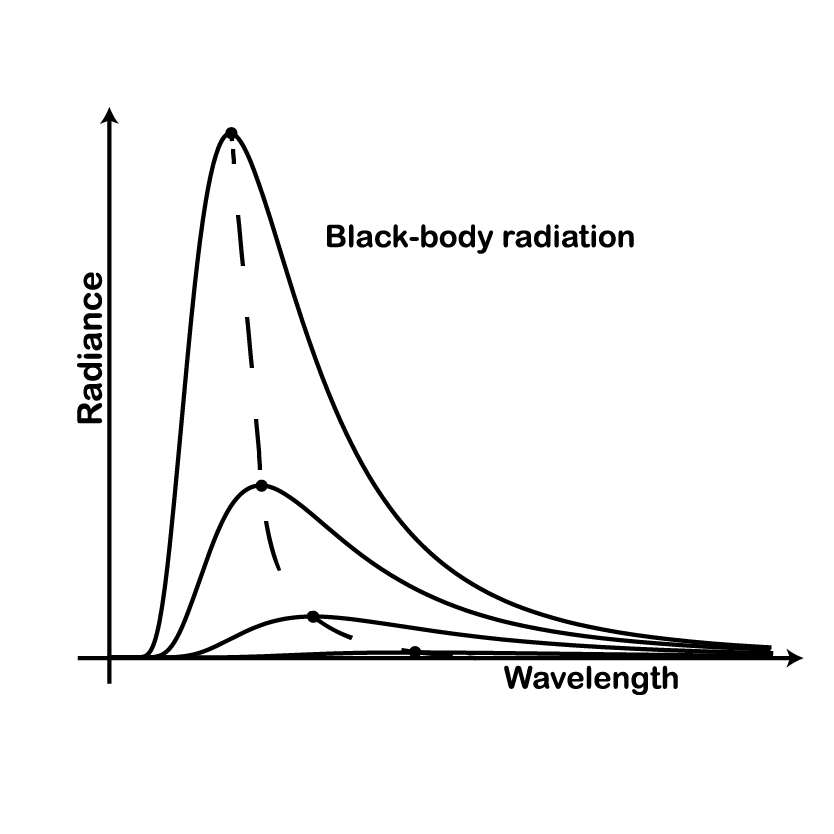
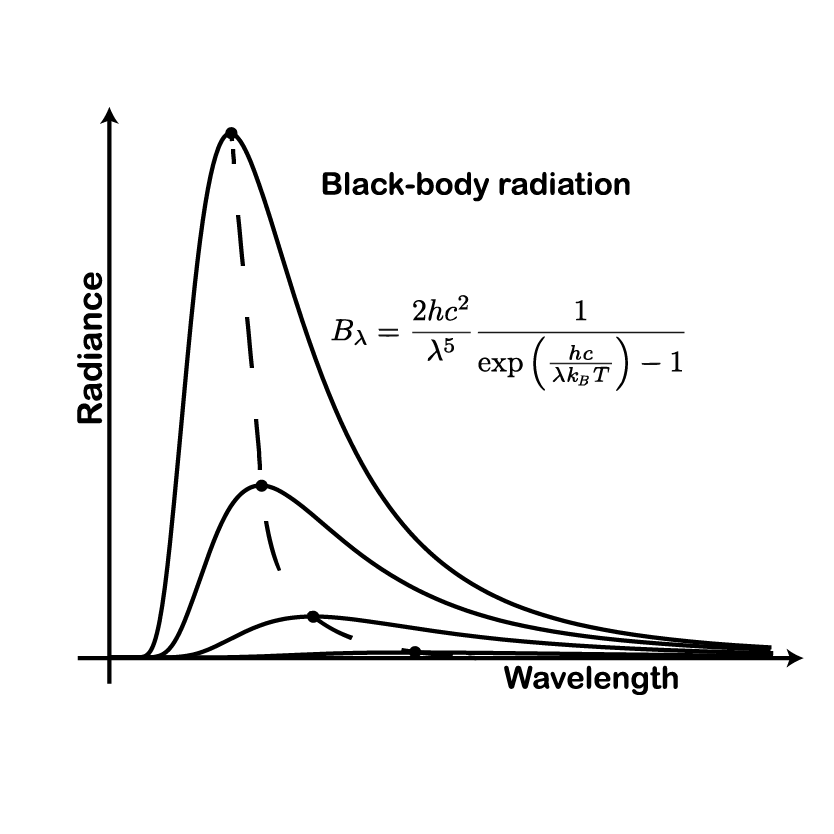
visuals-description

Changed region(s): [[0.3741, 0.1871, 0.7794, 0.3118], [0.5923, 0.3741, 0.8106, 0.4676], [0.4053, 0.3429, 0.5612, 0.4365]]

diff --git a/index_de.html b/index_de.html
@@ -375,7 +375,7 @@
         <button class="theory-toggle" onclick="toggleTheory(this)">Mehr &darr;</button>
         <div class="theory-detail">
           <p>Alles andere in diesem Puzzle ist eine Korrektur dieses Ausgangspunkts. Für alltägliche Geschwindigkeiten und Größenordnungen funktioniert sie nach wie vor perfekt.</p>
-          <p class="theory-visual-note">Bild: Das innerste Tetraeder — der Ursprung der gesamten Karte.</p>
+          <p class="theory-visual-note">Bild: Das komplexe Kräftegleichgewicht eines Surfers.</p>
         </div>
       </div>
 
@@ -390,7 +390,7 @@
         <button class="theory-toggle" onclick="toggleTheory(this)">Mehr &darr;</button>
         <div class="theory-detail">
           <p>Damit entstehen Wärme, Entropie und Druck aus der Statistik. Boltzmanns Grabstein in Wien trägt nur: <em>S = k<sub>B</sub> log W</em>.</p>
-          <p class="theory-visual-note">Bild: Ein spitzes Tetraeder, das zur thermodynamischen Ecke zeigt.</p>
+          <p class="theory-visual-note">Bild: Begriffe wie „heiß" und „kalt" hängen von der Aktivierungsenergie ab.</p>
         </div>
       </div>
 
@@ -405,7 +405,7 @@
         <button class="theory-toggle" onclick="toggleTheory(this)">Mehr &darr;</button>
         <div class="theory-detail">
           <p><em>G</em> ist die einzige von Plancks vier Konstanten, die noch nicht mit voller Präzision gemessen wurde — Experimente dazu laufen bis heute.</p>
-          <p class="theory-visual-note">Bild: Ein spitzes Tetraeder, das zur Gravitationsecke zeigt.</p>
+          <p class="theory-visual-note">Bild: Ellipsen von Merkur, Venus, Erde (mit Mond) und Mars um die Sonne.</p>
         </div>
       </div>
 
@@ -435,7 +435,7 @@
         <button class="theory-toggle" onclick="toggleTheory(this)">Mehr &darr;</button>
         <div class="theory-detail">
           <p>Die entscheidende Konstante ist <em>c⁻¹</em> — für <em>c → ∞</em> geht die spezielle Relativitätstheorie in Newtons Mechanik über. Maxwells Gleichungen leben hier ebenfalls.</p>
-          <p class="theory-visual-note">Bild: Ein spitzes Tetraeder, das zur relativistischen Ecke zeigt.</p>
+          <p class="theory-visual-note">Bild: Das Zwillingsparadoxon — ein klassisches Gedankenexperiment der speziellen Relativitätstheorie.</p>
         </div>
       </div>
 
@@ -450,7 +450,7 @@
         <button class="theory-toggle" onclick="toggleTheory(this)">Mehr &darr;</button>
         <div class="theory-detail">
           <p>Planck, Einstein und andere schlugen verschiedene Antworten vor — und alle könnten richtig sein, je nachdem, wie man Temperatur für ein bewegtes System definiert. Ein seltener Fall einer Theorie, die mehr Rätsel als Lösung ist.</p>
-          <p class="theory-visual-note">Bild: Ein Zwei-Konstanten-Stück mit einer offenen Frage in seinem Kern.</p>
+          <p class="theory-visual-note">Bild: Was ist die Temperatur eines bewegten Körpers?</p>
         </div>
       </div>
 
@@ -465,7 +465,7 @@
         <button class="theory-toggle" onclick="toggleTheory(this)">Mehr &darr;</button>
         <div class="theory-detail">
           <p>Die Formulierungen von Schrödinger und Heisenberg in den 1920er Jahren veränderten die Physik grundlegend. Einstein protestierte: „Gott würfelt nicht." Die Würfel widersprachen.</p>
-          <p class="theory-visual-note">Bild: Ein spitzes Tetraeder, das zur Quantenecke zeigt.</p>
+          <p class="theory-visual-note">Bild: Verschränkung von Teilchen — ihr Zustand kann nicht mehr unabhängig beschrieben werden.</p>
         </div>
       </div>
 
@@ -480,7 +480,7 @@
         <button class="theory-toggle" onclick="toggleTheory(this)">Mehr &darr;</button>
         <div class="theory-detail">
           <p>Plancks Schwarzkörpergesetz von 1900 — die erste Quantenformel — lebt ebenfalls hier.</p>
-          <p class="theory-visual-note">Bild: Wo Quantenseltsamkeit auf Thermodynamik trifft.</p>
+          <p class="theory-visual-note">Bild: Ein verrauschtes Qubit — die Umgebung „lässt" Information aus dem Qubit-System austreten.</p>
         </div>
       </div>
 
@@ -495,7 +495,7 @@
         <button class="theory-toggle" onclick="toggleTheory(this)">Mehr &darr;</button>
         <div class="theory-detail">
           <p>Alles später bestätigt. Das Bild zeigt durch eine massive Masse gekrümmten Raum — keine Kraft zieht nach unten, sondern eine Form leitet die Bewegung.</p>
-          <p class="theory-visual-note">Bild: Ein größeres Stück — zwei Konstanten, zwei revolutionierte Konzepte von Raum und Zeit.</p>
+          <p class="theory-visual-note">Bild: Die Raumzeit-Geometrie wird durch die Masse gekrümmt.</p>
         </div>
       </div>
 
@@ -510,7 +510,7 @@
         <button class="theory-toggle" onclick="toggleTheory(this)">Mehr &darr;</button>
         <div class="theory-detail">
           <p>Die Kosmologie lebt an dieser Schnittstelle von gekrümmter Raumzeit und Thermodynamik, obwohl Quanteneffekte nie wirklich absent sind.</p>
-          <p class="theory-visual-note">Bild: Das expandierende Universum, gemessen in Kelvin.</p>
+          <p class="theory-visual-note">Bild: Das expandierende Universum kühlt ab.</p>
         </div>
       </div>
 
@@ -540,7 +540,7 @@
         <button class="theory-toggle" onclick="toggleTheory(this)">Mehr &darr;</button>
         <div class="theory-detail">
           <p>Der Unruh-Effekt sagt voraus, dass ein beschleunigter Detektor im leeren Raum eine von Null verschiedene Temperatur messen wird. Heißes Vakuum: experimentell noch unbestätigt, theoretisch überzeugend.</p>
-          <p class="theory-visual-note">Bild: Drei Konstanten, die erste Quantenformel und ein glühendes Vakuum.</p>
+          <p class="theory-visual-note">Bild: Drei Konstanten, die erste Quantenformel und ein glühender Schwarzkörper.</p>
         </div>
       </div>
 
@@ -585,7 +585,7 @@
         <button class="theory-toggle" onclick="toggleTheory(this)">Mehr &darr;</button>
         <div class="theory-detail">
           <p>Keine wurde experimentell bestätigt. Die Planck-Länge (~10⁻³⁵ m), wo Quantengravitation bedeutsam werden muss, ist 10²⁰ mal kleiner als ein Proton. Der Fortschritt ist langsam, aber die Frage ist real.</p>
-          <p class="theory-visual-note">Bild: M-Theorie — eine Vision der Theorie von allem.</p>
+          <p class="theory-visual-note">Bild: Stringtheorie — eine Vision der Theorie von allem.</p>
         </div>
       </div>
 

diff --git a/index.html b/index.html
@@ -768,7 +768,7 @@
         <button class="theory-toggle" onclick="toggleTheory(this)">More &darr;</button>
         <div class="theory-detail">
           <p>Everything else in this puzzle is a correction to this starting point. It still works perfectly for everyday speeds and scales.</p>
-          <p class="theory-visual-note">Visual: The innermost tetrahedron — the origin of the whole map.</p>
+          <p class="theory-visual-note">Visual: The complex equilibrium of forces of a surfer.</p>
         </div>
       </div>
 
@@ -783,7 +783,7 @@
         <button class="theory-toggle" onclick="toggleTheory(this)">More &darr;</button>
         <div class="theory-detail">
           <p>With it, heat, entropy, and pressure emerge from statistics. Boltzmann's tombstone in Vienna reads simply: <em>S = k<sub>B</sub> log W</em>.</p>
-          <p class="theory-visual-note">Visual: A spiky tetrahedron pointing toward the thermodynamic corner.</p>
+          <p class="theory-visual-note">Visual: Terms such as "hot" and "cold" depend on the activation energy.</p>
         </div>
       </div>
 
@@ -798,7 +798,7 @@
         <button class="theory-toggle" onclick="toggleTheory(this)">More &darr;</button>
         <div class="theory-detail">
           <p><em>G</em> is the only one of Planck's four constants still not measured to full precision — experiments to nail it down are ongoing today.</p>
-          <p class="theory-visual-note">Visual: A spiky tetrahedron pointing toward the gravitational corner.</p>
+          <p class="theory-visual-note">Visual: Mercury, Venus, Earth (with moon) and Mars elipses around the Sun.</p>
         </div>
       </div>
 
@@ -828,7 +828,7 @@
         <button class="theory-toggle" onclick="toggleTheory(this)">More &darr;</button>
         <div class="theory-detail">
           <p>The constant that matters is <em>c⁻¹</em> — as <em>c → ∞</em>, special relativity collapses back to Newton. Maxwell's equations live here too.</p>
-          <p class="theory-visual-note">Visual: A spiky tetrahedron pointing toward the relativistic corner.</p>
+          <p class="theory-visual-note">Visual: The twin paradox — a classic thought experiment in special relativity.</p>
         </div>
       </div>
 
@@ -843,7 +843,7 @@
         <button class="theory-toggle" onclick="toggleTheory(this)">More &darr;</button>
         <div class="theory-detail">
           <p>Planck, Einstein, and others proposed different answers — and all may be correct, depending on how you define temperature for a moving system. A rare case of a theory that is more puzzle than solution.</p>
-          <p class="theory-visual-note">Visual: A two-constant piece with an open question at its heart.</p>
+          <p class="theory-visual-note">Visual: What is the temperature of a moving body?</p>
         </div>
       </div>
 
@@ -858,7 +858,7 @@
         <button class="theory-toggle" onclick="toggleTheory(this)">More &darr;</button>
         <div class="theory-detail">
           <p>The 1920s formulations of Schrödinger and Heisenberg transformed physics. Einstein protested: "God does not play dice." The dice disagree.</p>
-          <p class="theory-visual-note">Visual: A spiky tetrahedron pointing toward the quantum corner.</p>
+          <p class="theory-visual-note">Visual: Entanglement of particles — their state cannot be described independently anymore.</p>
         </div>
       </div>
 
@@ -873,7 +873,7 @@
         <button class="theory-toggle" onclick="toggleTheory(this)">More &darr;</button>
         <div class="theory-detail">
           <p>Planck's 1900 black-body law — the first quantum formula — lives here too.</p>
-          <p class="theory-visual-note">Visual: Where quantum strangeness meets thermodynamics.</p>
+          <p class="theory-visual-note">Visual: A noisy qubit — the environment "leaks" information out of the qubit system.</p>
         </div>
       </div>
 
@@ -888,7 +888,7 @@
         <button class="theory-toggle" onclick="toggleTheory(this)">More &darr;</button>
         <div class="theory-detail">
           <p>All later confirmed. The image shows space curved by a massive body — not a force pulling things down, but a shape guiding them.</p>
-          <p class="theory-visual-note">Visual: A larger piece — two constants, two revolutionised concepts of space and time.</p>
+          <p class="theory-visual-note">Visual: Space-time geometry is curved due to the mass.</p>
         </div>
       </div>
 
@@ -903,7 +903,7 @@
         <button class="theory-toggle" onclick="toggleTheory(this)">More &darr;</button>
         <div class="theory-detail">
           <p>Cosmology lives at this intersection of curved spacetime and thermodynamics, though quantum effects are never truly absent.</p>
-          <p class="theory-visual-note">Visual: The expanding universe, measured in degrees.</p>
+          <p class="theory-visual-note">Visual: The expanding universe is cooling down.</p>
         </div>
       </div>
 
@@ -933,7 +933,7 @@
         <button class="theory-toggle" onclick="toggleTheory(this)">More &darr;</button>
         <div class="theory-detail">
           <p>The Unruh effect predicts that an accelerating detector in empty space will measure a nonzero temperature. Hot vacuum: still unconfirmed experimentally, but theoretically compelling.</p>
-          <p class="theory-visual-note">Visual: Three constants, the first quantum formula, and a glowing vacuum.</p>
+          <p class="theory-visual-note">Visual: Three constants, the first quantum formula, and a glowing black-body.</p>
         </div>
       </div>
 
@@ -978,7 +978,7 @@
         <button class="theory-toggle" onclick="toggleTheory(this)">More &darr;</button>
         <div class="theory-detail">
           <p>Neither has been experimentally confirmed. The Planck length (~10⁻³⁵ m), where quantum gravity must matter, is 10²⁰ times smaller than a proton. Progress is slow, but the question is real.</p>
-          <p class="theory-visual-note">Visual: M-theory — one vision of the Theory of Everything.</p>
+          <p class="theory-visual-note">Visual: String theory — one vision of the Theory of Everything.</p>
         </div>
       </div>
 
